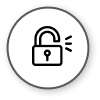
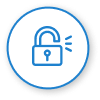
big ui changes

Changed region(s): [[0.06, 0.06, 0.9, 0.9], [0.3, 0.24, 0.72, 0.66]]

diff --git a/src/components/SignIn/SignInView.tsx b/src/components/SignIn/SignInView.tsx
@@ -7,6 +7,8 @@
  */
 
 import React, { useState } from 'react';
+import { useEffect } from 'react';
+import { Easing } from 'react-native';
 import {
   Image,
   ImageBackground,
@@ -14,6 +16,7 @@ import {
   Text,
   TouchableOpacity,
   View,
+  Animated,
 } from 'react-native';
 import 'react-native-gesture-handler';
 import { sharedStyles } from '../../styles/shared';
@@ -31,85 +34,131 @@ const usernameImage = require('../../assets/images/usernameImage.png');
 const passwordImage = require('../../assets/images/passwordImage.png');
 
 const SignInView = ({ navigation }: NavigationProps) => {
+  const animatedValue = new Animated.Value(0);
   const [username, setUsername] = useState('');
   const [password, setPassword] = useState('');
+
+  useEffect(() => {
+    Animated.loop(
+      Animated.sequence([
+        Animated.timing(animatedValue, {
+          toValue: 1,
+          duration: 1000,
+          useNativeDriver: true,
+          easing: Easing.elastic(1),
+        }),
+        Animated.delay(1000),
+        Animated.timing(animatedValue, {
+          toValue: 2,
+          duration: 1000,
+          useNativeDriver: true,
+        }),
+        Animated.timing(animatedValue, {
+          toValue: 0,
+          duration: 0,
+          useNativeDriver: true,
+        }),
+      ]),
+    ).start();
+  });
+
   return (
     <View style={styles.container}>
-      <ImageBackground
-        source={backgroundSrc}
-        style={sharedStyles.backgroundImage}>
-        {/* title */}
-        <View style={{ marginTop: hp(1) }}>
-          <Text style={styles.appTitle}>SOS Pharm D</Text>
-        </View>
-        {/* logo */}
-        <View style={{ marginTop: hp(0) }}>
-          <Image source={logo} style={styles.logo} />
-        </View>
-        {/* username */}
-        <View style={{ marginTop: hp(5) }}>
-          <Input
-            autoFocus
-            value={username}
-            set={setUsername}
-            sourceImage={usernameImage}
-            placeholder="Username/Email"
-          />
-        </View>
-        {/* password */}
-        <View style={{ marginTop: hp(4) }}>
-          <Input
-            value={password}
-            set={setPassword}
-            sourceImage={passwordImage}
-            placeholder="Password"
-            secured
-          />
-        </View>
-        {/* login */}
-        <View style={{ marginTop: hp(5) }}>
-          <LoginButton
-            onPress={() => {
-              navigation.reset({
-                index: 0,
-                routes: [{ name: 'Home' }],
-              });
-            }}
-          />
-        </View>
-        {/* facebook */}
-        <View style={{ marginTop: hp(6) }}>
-          <TouchableOpacity>
-            <Image source={require('../../assets/images/facebookButton.png')} />
-          </TouchableOpacity>
-        </View>
-        {/* apple */}
-        <View style={{ marginTop: hp(3) }}>
-          <TouchableOpacity>
-            <Image source={require('../../assets/images/signWithApple.png')} />
-          </TouchableOpacity>
-        </View>
-        {/* forgot password */}
-        <View style={{ marginTop: hp(4) }}>
-          <TouchableOpacity
-            onPress={() => {
-              // navigation.navigate('forgotPassword');
-            }}>
-            <Text style={styles.boldText}>Forgot Password?</Text>
-          </TouchableOpacity>
-        </View>
-        {/*  */}
-        <View style={{ marginTop: hp(2.5) }}>
-          <TouchableOpacity
-            style={styles.signUp}
-            onPress={() => {
-              navigation.navigate('SignUp');
-            }}>
-            <Text style={styles.regularText}>Don't have an account?</Text>
-            <Text style={styles.boldText}> Sign Up</Text>
-          </TouchableOpacity>
-        </View>
-      </ImageBackground>
+      {/* title */}
+      <View
+        style={{
+          marginTop: hp(16),
+          alignItems: 'flex-start',
+          alignSelf: 'flex-start',
+          marginLeft: wp(11),
+        }}>
+        <Text style={styles.appTitle}>Login</Text>
+        <Animated.View
+          style={[
+            styles.customUnderline,
+            {
+              transform: [
+                {
+                  translateX: animatedValue.interpolate({
+                    inputRange: [0, 1, 2],
+                    outputRange: [-200, 0, 400],
+                  }),
+                },
+              ],
+            },
+          ]}
+        />
+      </View>
+      {/* logo */}
+      {/* <View style={{ marginTop: hp(1) }}>
+        <Image source={logo} style={styles.logo} />
+      </View> */}
+      {/* username */}
+      <View style={{ marginTop: hp(8) }}>
+        <Input
+          autoFocus
+          set={setUsername}
+          sourceImage={usernameImage}
+          placeholder="Username/Email"
+        />
+      </View>
+      {/* password */}
+      <View style={{ marginTop: hp(4) }}>
+        <Input
+          set={setPassword}
+          sourceImage={passwordImage}
+          placeholder="Password"
+          secured
+        />
+      </View>
+      {/* login */}
+      <View style={{ marginTop: hp(4) }}>
+        <LoginButton
+          onPress={() => {
+            navigation.reset({
+              index: 0,
+              routes: [{ name: 'Home' }],
+            });
+          }}
+        />
+      </View>
+      <View style={{ marginTop: hp(5) }}>
+        <Text style={styles.or}>or connect using one of these</Text>
+      </View>
+      {/* facebook */}
+      <View style={{ marginTop: hp(3) }}>
+        <TouchableOpacity>
+          <Image source={require('../../assets/images/facebookButton.png')} />
+        </TouchableOpacity>
+      </View>
+      {/* apple */}
+      <View style={{ marginTop: hp(3) }}>
+        <TouchableOpacity>
+          <Image source={require('../../assets/images/signWithApple.png')} />
+        </TouchableOpacity>
+      </View>
+      {/* forgot password */}
+      <View style={{ marginTop: hp(5) }}>
+        <TouchableOpacity
+          onPress={() => {
+            // navigation.navigate('forgotPassword');
+          }}>
+          <Text style={[styles.boldText, { color: '#1E81CE' }]}>
+            Forgot Password?
+          </Text>
+        </TouchableOpacity>
+      </View>
+      {/*  */}
+      <View style={{ marginTop: hp(4) }}>
+        <TouchableOpacity
+          style={styles.signUp}
+          onPress={() => {
+            navigation.navigate('SignUp');
+          }}>
+          <Text style={styles.regularText}>Don't have an account?</Text>
+          <Text style={[styles.boldText, { color: '#1E81CE' }]}> Sign Up</Text>
+        </TouchableOpacity>
+      </View>
     </View>
   );
 };
@@ -118,12 +167,23 @@ const styles = StyleSheet.create({
   container: {
     height: hp(100),
     width: wp(100),
+    alignItems: 'center',
   },
   appTitle: {
     fontSize: 30,
-    marginTop: hp(6),
-    fontWeight: '500',
+    fontWeight: '700',
     color: '#303D5C',
+  },
+  or: {
+    fontSize: 14,
+    fontWeight: '300',
+    color: '#303D5C',
+  },
+  customUnderline: {
+    marginTop: 3,
+    height: 2,
+    width: wp(40),
+    backgroundColor: '#303D5C',
   },
   logo: {
     height: hp(20),

diff --git a/src/components/SignIn/Button.tsx b/src/components/SignIn/Button.tsx
@@ -29,7 +29,7 @@ interface Props {
 }
 
 const Button = (props: Props) => {
-  const { onPress, text = 'Login', active = true } = props;
+  const { onPress, text = 'Log in', active = true } = props;
   return (
     <TouchableOpacity
       activeOpacity={active ? 0.2 : 1}
@@ -45,17 +45,18 @@ const Button = (props: Props) => {
 const styles = StyleSheet.create({
   container: {
     height: hp(6),
-    width: wp(40),
-    borderRadius: 20,
-    backgroundColor: '#8BAFD1',
+    width: wp(80),
+    borderRadius: 50,
+    // backgroundColor: '#8BAFD1',
+    backgroundColor: '#183258',
     borderWidth: 1,
     borderColor: '#263C4D',
     alignItems: 'center',
     justifyContent: 'center',
-    shadowColor: '#000',
-    shadowOffset: { height: 3, width: 2 },
-    shadowOpacity: 0.4,
-    shadowRadius: 1,
+    // shadowColor: '#000',
+    // shadowOffset: { height: 3, width: 2 },
+    // shadowOpacity: 0.4,
+    // shadowRadius: 1,
   },
   text: {
     color: '#fff',

diff --git a/src/components/SignIn/Input.tsx b/src/components/SignIn/Input.tsx
@@ -40,7 +40,7 @@ const Input = (props: Props) => {
         style={styles.input}
         onChangeText={set}
         placeholder={placeholder}
-        placeholderTextColor="#aaa"
+        placeholderTextColor="#bbb"
         autoCapitalize="none"
         autoCompleteType="off"
         autoCorrect={false}
@@ -53,16 +53,18 @@ const Input = (props: Props) => {
 const styles = StyleSheet.create({
   container: {
     backgroundColor: '#fff',
-    borderColor: '#B4B4B4',
+    borderColor: '#ddd',
     borderWidth: 2,
+    borderRadius: 50,
     height: hp(5.5),
     width: wp(80),
     flexDirection: 'row',
     alignItems: 'center',
   },
   usernameImage: {
+    right: wp(1.2),
     resizeMode: 'contain',
-    height: '95%',
+    height: '100%',
   },
   input: {
     fontSize: 19,

diff --git a/src/components/SignUp/SignUpView.tsx b/src/components/SignUp/SignUpView.tsx
@@ -96,7 +96,7 @@ const SignUpView = ({ navigation }: NavigationProps) => {
             onPress={() => {
               navigation.navigate('AccountConfirmation');
             }}
-            text="Next"
+            text="Sign Up"
           />
         </View>
       </View>
